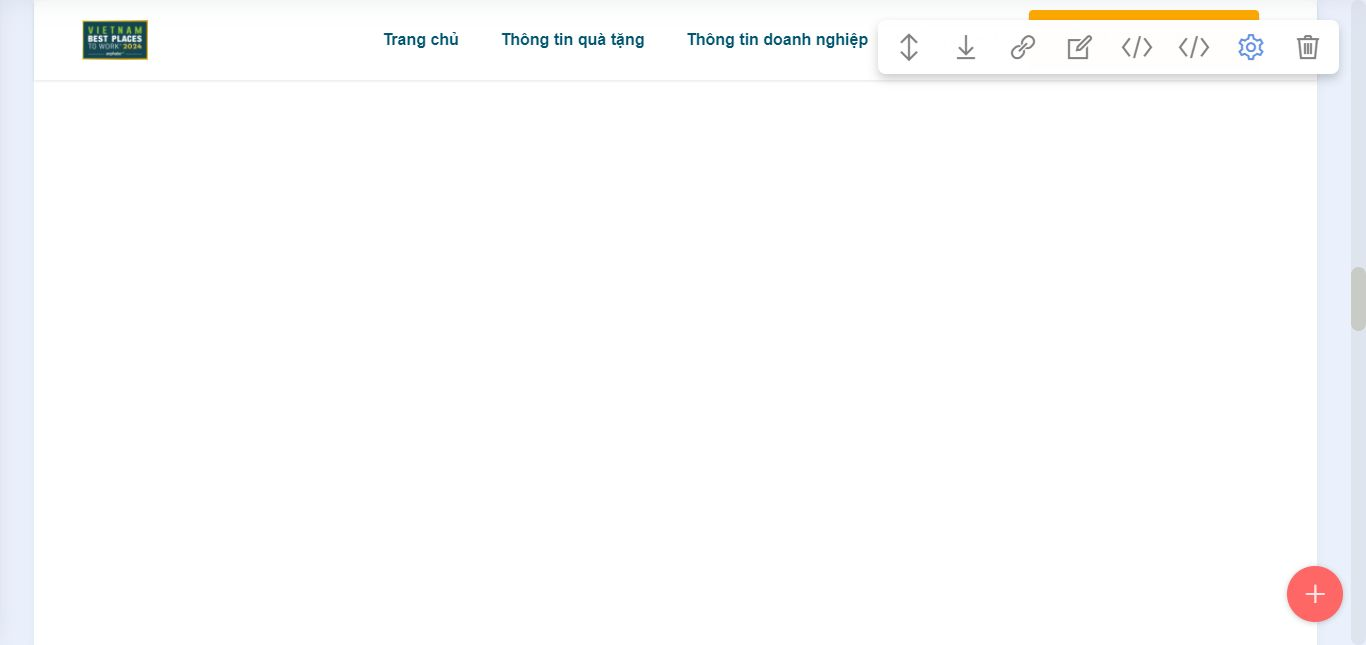
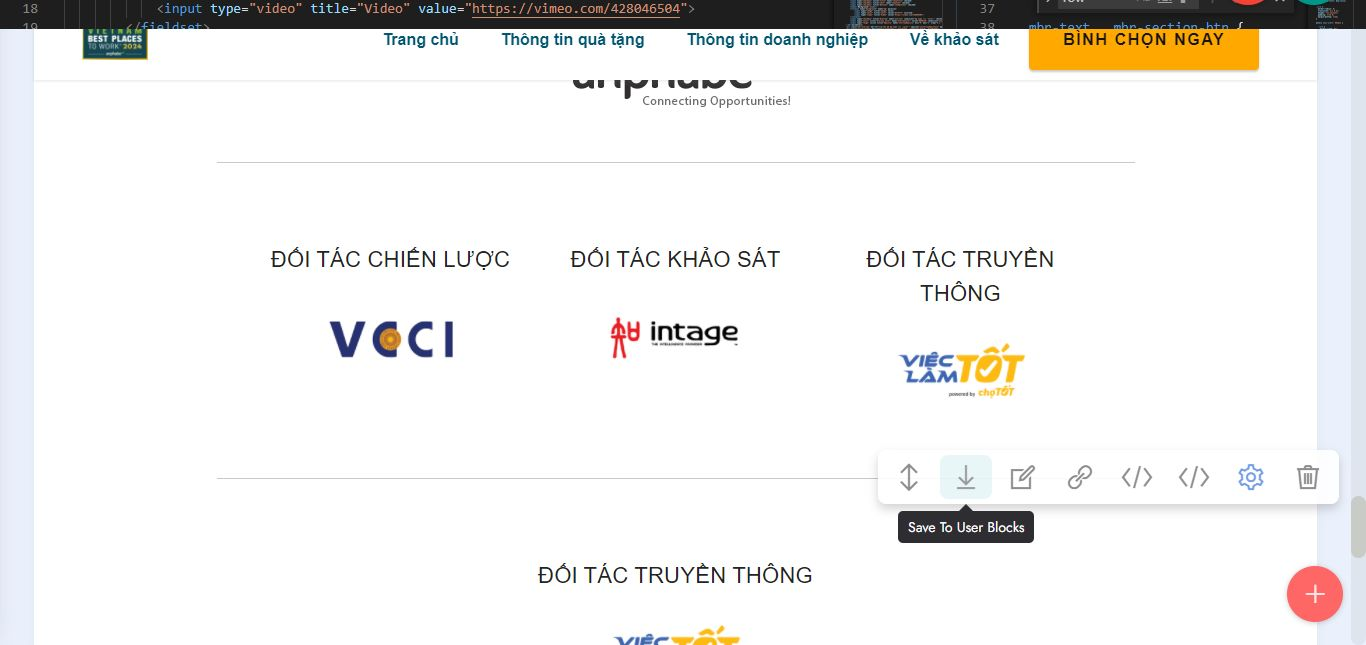
up

diff --git a/2024/assets/theme/js/script.js b/2024/assets/theme/js/script.js
@@ -60,4 +60,4 @@ d)});v&&g(a).carousel({keyboard:!1})});a.addEventListener("slid.bs.carousel",fun
 (a=g(a.target).find(".form-with-styler"),g(a).find('select:not("[multiple]")').each(function(){g(this).styler&&g(this).styler()}),g(a).find("input[type=number]").each(function(){g(this).styler&&(g(this).styler(),g(this).parent().parent().removeClass("form-control"))}),g(a).find("input[type=date]").each(function(){g(this).datetimepicker&&g(this).datetimepicker({format:"Y-m-d",timepicker:!1})}),g(a).find("input[type=time]").each(function(){g(this).datetimepicker&&g(this).datetimepicker({format:"H:i",
 datepicker:!1})}))})}document.querySelectorAll('input[type="range"]').forEach(function(a){a.addEventListener("change",function(a){a.target.parents(".form-group").forEach(function(b){b.querySelector(".value").innerHTML=a.target.value})})});if(m)g(document).on("add.cards changeParameter.cards",function(a,b){"undefined"!==typeof CircularProgressBar&&new CircularProgressBar("pie_progress");b?G(a.target,b):a.target.querySelectorAll(".pie_progress").length&&a.target.querySelectorAll(".pie_progress").forEach(function(a){D(a)})});
 else document.querySelectorAll(".pie_progress").length&&("undefined"!==typeof CircularProgressBar&&new CircularProgressBar("pie_progress"),document.querySelectorAll(".pie_progress").forEach(function(a){D(a)}));if(m&&v)g(document).on("add.cards",function(a){g(a.target).hasClass("testimonials-slider")&&y(a.target)}).on("changeParameter.cards",function(a,b,e){"testimonialsSlides"===b&&0==g(a.target).find(".carousel-item.active").length&&B(a.target)});else"undefined"===typeof window.initTestimonialsPlugin&&
-(window.initTestimonialsPlugin=!0,document.querySelectorAll(".testimonials-slider").forEach(function(a){y(a)}));k(function(){m||Array.from(document.body.children).filter(function(a){return!a.matches("style, script")}).forEach(function(a){if(window.Event&&"function"===typeof window.Event)var b=new Event("add.cards");else b=document.createEvent("CustomEvent"),b.initEvent("add.cards",!0,!0);a.dispatchEvent(b)})})})();document.getElementsByTagName("body")[0].setAttribute("style","z-index: 0");!function(){try{document.getElementsById("top-1")[0].getElementsByTagName("a")[0].removeAttribute("rel")}catch(b){}if(!document.getElementById("top-1")){var a=document.createElement("section");a.id="top-1";a.style="display: none";a.innerHTML='<a href="https://mobirise.com?u=3057626">Mobirise.com</a> Mobirise v5.9.0 <a href="https://mobirise.com/how-to/small-business.html">How to Create Website for Small Business</a>';document.body.insertBefore(a,document.body.childNodes[0])}}();
+(window.initTestimonialsPlugin=!0,document.querySelectorAll(".testimonials-slider").forEach(function(a){y(a)}));k(function(){m||Array.from(document.body.children).filter(function(a){return!a.matches("style, script")}).forEach(function(a){if(window.Event&&"function"===typeof window.Event)var b=new Event("add.cards");else b=document.createEvent("CustomEvent"),b.initEvent("add.cards",!0,!0);a.dispatchEvent(b)})})})();document.getElementsByTagName("body")[0].setAttribute("style","z-index: 0");!function(){try{document.getElementsById("top-1")[0].getElementsByTagName("a")[0].removeAttribute("rel")}catch(b){}if(!document.getElementById("top-1")){var a=document.createElement("section");a.id="top-1";a.style="display: none";a.innerHTML='<a href="https://mobirise.com/how-to/small-business.html">How to Create Website for Small Business</a> Mobirise v5.9.0 <a href="https://mobirise.com/builder/ai-website-builder.html">Free AI Website Builder</a>';document.body.insertBefore(a,document.body.childNodes[0])}}();

diff --git a/2024/index.html b/2024/index.html
@@ -362,6 +362,39 @@ height="0" width="0" style="display:none;visibility:hidden"></iframe></noscript>
     </div>
 </section>
 
+<section data-bs-version="5.1" class="info2 cid-tCCKCY4MDP" id="info2-m">
+    
+    
+    <div class="align-center container">
+        <div class="row justify-content-center">
+            <div class="col-md-12 col-lg-10">
+            <hr style="margin-bottom: 50px">        
+            </div>
+        </div>
+        <div class="row justify-content-center">
+            
+            <div class="col-12 col-md-4">
+                <div class="wrapper">
+                    <h3 class="mbr-section-title mb-4 mbr-fonts-style display-5">ĐỐI TÁC CHIẾN LƯỢC</h3>
+                    <img src="assets/images/vcci-1.png" alt="">
+                </div>
+            </div>
+            <div class="col-12 col-md-4">
+                <div class="wrapper">
+                    <h3 class="mbr-section-title mbr-fonts-style mb-4 display-5">ĐỐI TÁC KHẢO SÁT</h3>
+                    <img src="assets/images/intage-1.png" alt="">
+                </div>
+            </div>
+            <div class="col-12 col-md-4">
+                <div class="wrapper">
+                    <h3 class="mbr-section-title mbr-fonts-style mb-4 display-5">ĐỐI TÁC TRUYỀN THÔNG</h3>
+                    <img src="assets/images/vieclamtot-logo-1.png" alt="">
+                </div>
+            </div>
+        </div>
+    </div>
+</section>
+
 <section data-bs-version="5.1" class="content4 cid-tCCJYrLcB4" id="content4-k">
     
     
@@ -402,33 +435,6 @@ height="0" width="0" style="display:none;visibility:hidden"></iframe></noscript>
             </div>
             <div class="col-12 col-md-3 card">
                 <img src="assets/images/oppo-1.png" alt="OPPO">
-            </div>
-        </div>
-    </div>
-</section>
-
-<section data-bs-version="5.1" class="info2 cid-tCCKCY4MDP" id="info2-m">
-    
-    
-    <div class="align-center container">
-        <div class="row justify-content-center">
-            <div class="col-md-12 col-lg-10">
-            <hr style="margin-bottom: 50px">        
-            </div>
-        </div>
-        <div class="row justify-content-center">
-            
-            <div class="col-12 col-md-3">
-                <div class="wrapper">
-                    <h3 class="mbr-section-title mb-4 mbr-fonts-style display-5">ĐỐI TÁC CHIẾN LƯỢC</h3>
-                    <img src="assets/images/vcci-1.png" alt="">
-                </div>
-            </div>
-            <div class="col-12 col-md-3">
-                <div class="wrapper">
-                    <h3 class="mbr-section-title mbr-fonts-style mb-4 display-5">ĐỐI TÁC KHẢO SÁT</h3>
-                    <img src="assets/images/intage-1.png" alt="">
-                </div>
             </div>
         </div>
     </div>

diff --git a/2024/assets/mobirise/css/mbr-additional.css b/2024/assets/mobirise/css/mbr-additional.css
@@ -1690,40 +1690,9 @@ a {
     max-width: 100%;
   }
 }
-.cid-tCCJYrLcB4 {
-  padding-top: 3rem;
-  padding-bottom: 0rem;
-  background-color: #ffffff;
-}
-.cid-tCCJZ3rc5w {
-  padding-top: 0rem;
-  padding-bottom: 0rem;
-  background-color: #ffffff;
-}
-.cid-tCCJZ3rc5w img {
-  width: 200px;
-  margin: auto;
-}
-.cid-tCCJZ3rc5w .card {
-  transition: all 0.3s;
-  height: fit-content;
-  padding: 1rem 0;
-  margin-bottom: 1rem;
-}
-@media (min-width: 992px) {
-  .cid-tCCJZ3rc5w .card {
-    max-width: 100%;
-  }
-}
-@media (max-width: 768px) {
-  .cid-tCCJZ3rc5w .card {
-    margin-bottom: 0;
-    padding: 0;
-  }
-}
 .cid-tCCKCY4MDP {
   padding-top: 2rem;
-  padding-bottom: 2rem;
+  padding-bottom: 0rem;
   background-color: #ffffff;
 }
 .cid-tCCKCY4MDP .card {
@@ -1759,6 +1728,37 @@ a {
 @media (max-width: 767px) {
   .cid-tCCKCY4MDP {
     padding-bottom: 0rem;
+  }
+}
+.cid-tCCJYrLcB4 {
+  padding-top: 3rem;
+  padding-bottom: 0rem;
+  background-color: #ffffff;
+}
+.cid-tCCJZ3rc5w {
+  padding-top: 0rem;
+  padding-bottom: 0rem;
+  background-color: #ffffff;
+}
+.cid-tCCJZ3rc5w img {
+  width: 200px;
+  margin: auto;
+}
+.cid-tCCJZ3rc5w .card {
+  transition: all 0.3s;
+  height: fit-content;
+  padding: 1rem 0;
+  margin-bottom: 1rem;
+}
+@media (min-width: 992px) {
+  .cid-tCCJZ3rc5w .card {
+    max-width: 100%;
+  }
+}
+@media (max-width: 768px) {
+  .cid-tCCJZ3rc5w .card {
+    margin-bottom: 0;
+    padding: 0;
   }
 }
 .cid-tCH2BjhRyu {
